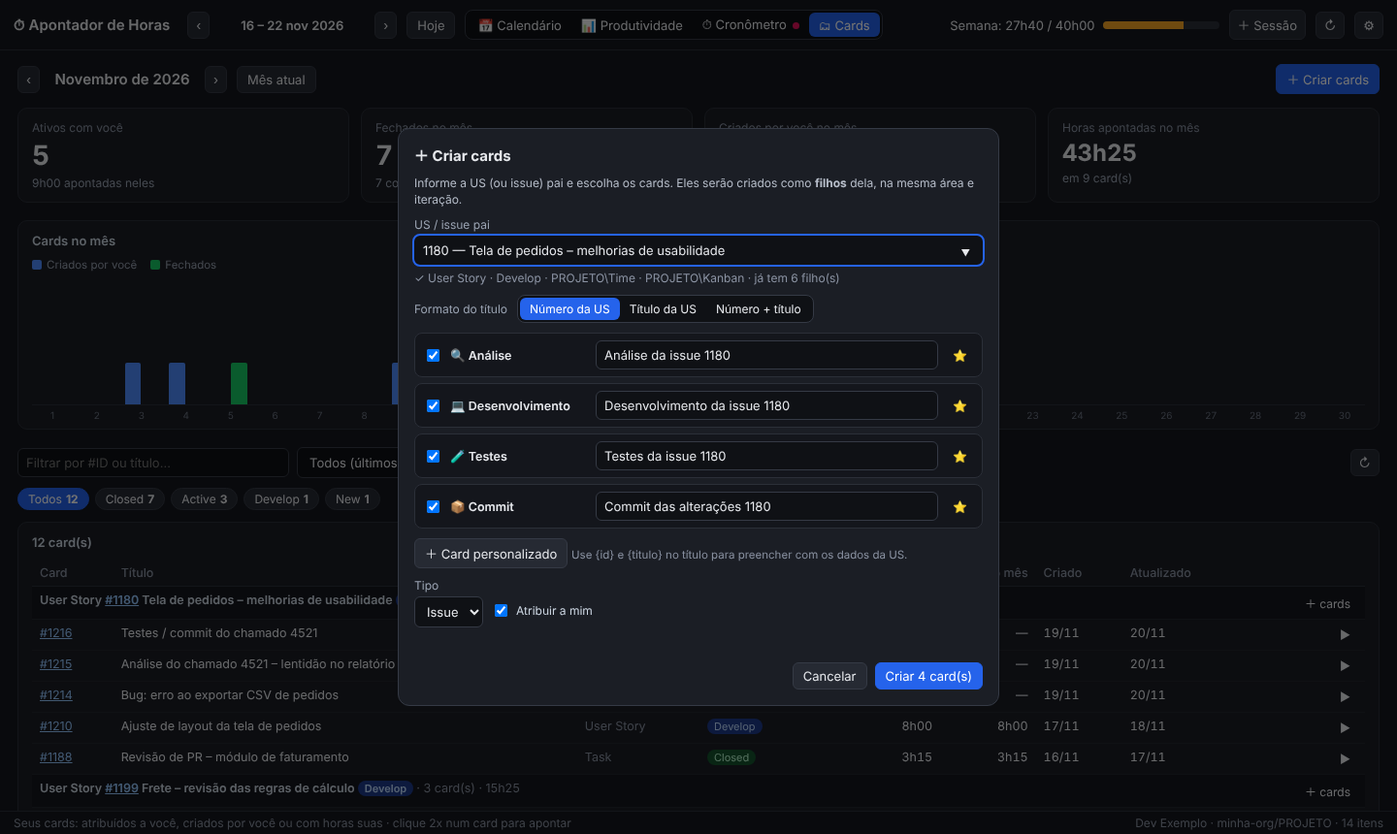
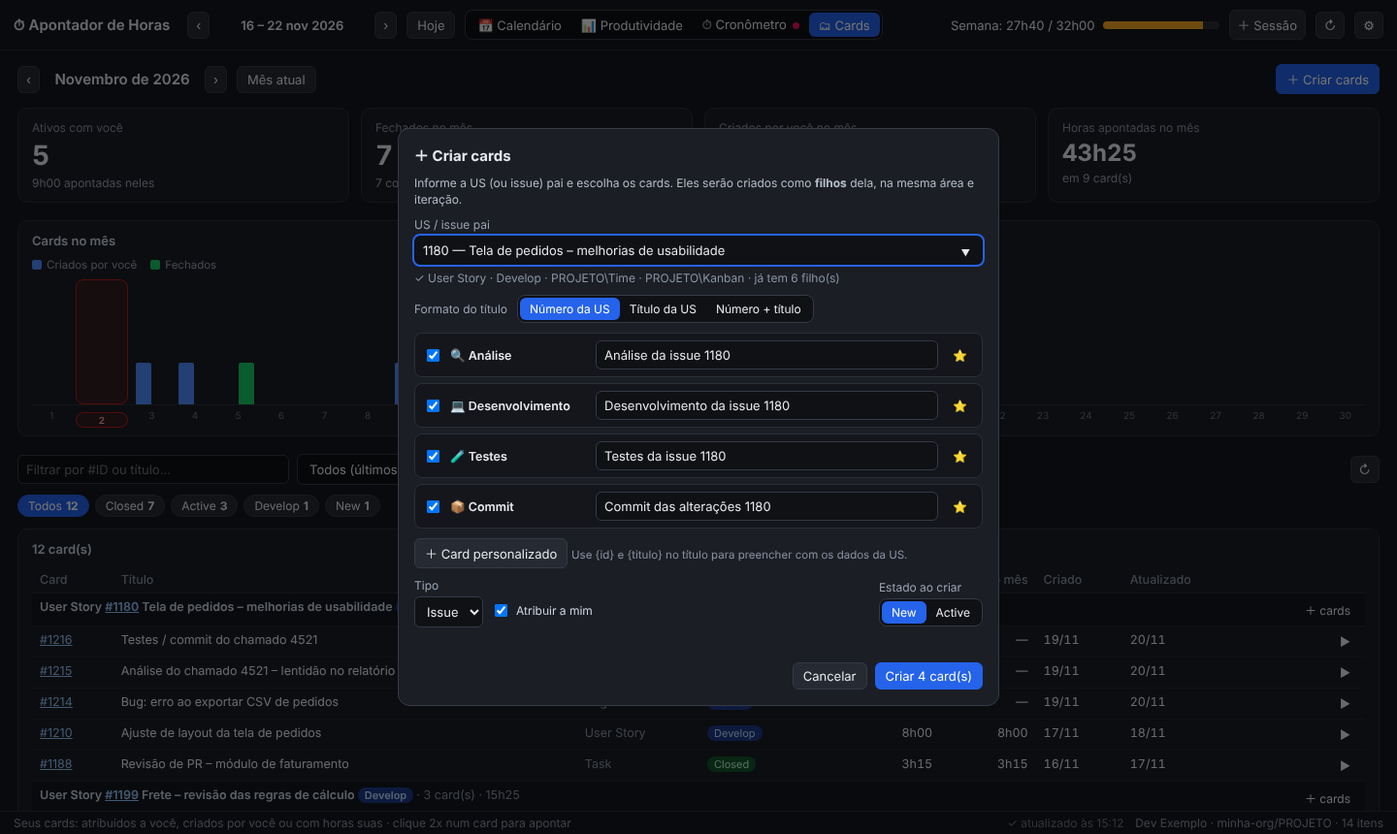
Feriados no calendário, sincronizados com o Clockin
- etiqueta vermelha "Feriado: nome" na data e coluna destacada
- feriados não contam na meta de horas (semana desconta) nem de cards
  (produtividade usa dias úteis sem feriados); gráficos marcam o dia
- nacionais calculados no app (inclui Sexta-feira Santa pela Páscoa)
- userscript 1.2.0 envia ao app os feriados de cada semana aberta no
  Clockin e tem o botão "Feriados do ano" para ler o ano inteiro
- Configurações → Feriados: adicionar à mão e desativar (o ajuste manual
  não é sobrescrito pelo Clockin)
- servidor: feriados.json, GET/POST /api/holidays e
  POST /api/holidays/import (cabeçalho da ponte do Clockin)

Claude-Session: https://claude.ai/code/session_0132oV9NVhGaX8LjV5porn9X

diff --git a/fonte/ui/index.html b/fonte/ui/index.html
@@ -176,6 +176,16 @@
   .seg3 button { border: 0; background: transparent; padding: 4px 10px; font-size: 12px; }
   .seg3 button.on { background: #2563eb; color: #fff; }
   .created li { margin: 3px 0; }
+  .hol { display: inline-block; margin-top: 3px; font-size: 10.5px; font-weight: 600; padding: 1px 6px; border-radius: 8px; border: 1px solid #b91c1c; color: #fca5a5; background: rgba(185,28,28,.15); max-width: 100%; white-space: nowrap; overflow: hidden; text-overflow: ellipsis; }
+  .dh.isHol { background: rgba(185,28,28,.08); }
+  .col.isHol { background: repeating-linear-gradient(135deg, rgba(185,28,28,.06) 0 8px, transparent 8px 16px); }
+  .bars .b.hol i, .bars2 .b.hol i { opacity: .5; }
+  .xlab span.hol, .bars .b.hol span { color: #fca5a5; }
+  .holl { max-height: 180px; overflow: auto; border: 1px solid #2b2f38; border-radius: 8px; }
+  .holl .hr { display: flex; gap: 8px; align-items: center; padding: 4px 8px; border-bottom: 1px solid #23262e; font-size: 12.5px; }
+  .holl .hr:last-child { border-bottom: 0; }
+  .holl .hr.off { opacity: .5; text-decoration: line-through; }
+  .src { font-size: 10.5px; padding: 0 6px; border-radius: 6px; background: #262a33; color: #9aa3b2; }
   .tok { background: #14161c; border: 1px solid #2b2f38; border-radius: 10px; padding: 12px; }
   .tabs { display: flex; background: #0f1115; border: 1px solid #353a45; border-radius: 8px; padding: 2px; }
   .tabs button { border: 0; background: transparent; padding: 4px 10px; }
@@ -295,6 +305,35 @@
   function truncMin(d) { const x = new Date(d); x.setSeconds(0, 0); return x; }
   function fmtH(h) { const m = Math.round(h * 60); return `${Math.floor(m / 60)}h${pad(m % 60)}`; }
   function fmtRange(e) { const s = new Date(e.start); return `${pad(s.getDate())}/${pad(s.getMonth() + 1)} ${timeStr(s)}–${e.end ? timeStr(new Date(e.end)) : 'em andamento'}`; }
+
+  // ───────── Feriados ─────────
+  // Nacionais calculados aqui + os que vêm do Clockin (pelo script) ou adicionados à mão.
+  function easterOf(y) {
+    const a = y % 19, b = Math.floor(y / 100), c = y % 100, d = Math.floor(b / 4), e = b % 4, f = Math.floor((b + 8) / 25), g = Math.floor((b - f + 1) / 3);
+    const h = (19 * a + b - d - g + 15) % 30, i = Math.floor(c / 4), k = c % 4, l = (32 + 2 * e + 2 * i - h - k) % 7, m = Math.floor((a + 11 * h + 22 * l) / 451);
+    const mo = Math.floor((h + l - 7 * m + 114) / 31), da = ((h + l - 7 * m + 114) % 31) + 1;
+    return new Date(y, mo - 1, da);
+  }
+  function nationalHolidays(y) {
+    const e = easterOf(y);
+    return [[`${y}-01-01`, 'Confraternização Universal'], [dateInput(addDays(e, -2)), 'Sexta-feira Santa'], [`${y}-04-21`, 'Tiradentes'],
+      [`${y}-05-01`, 'Dia do Trabalho'], [`${y}-09-07`, 'Independência do Brasil'], [`${y}-10-12`, 'Nossa Senhora Aparecida'],
+      [`${y}-11-02`, 'Finados'], [`${y}-11-15`, 'Proclamação da República'], [`${y}-11-20`, 'Dia da Consciência Negra'], [`${y}-12-25`, 'Natal']]
+      .map(([date, name]) => ({ date, name, source: 'nacional' }));
+  }
+  let HOL_SAVED = [];
+  const HOL = new Map();
+  function rebuildHolidays() {
+    HOL.clear();
+    const y = new Date().getFullYear();
+    for (const yy of [y - 1, y, y + 1]) for (const h of nationalHolidays(yy)) HOL.set(h.date, h);
+    for (const h of HOL_SAVED) { if (h.off) HOL.delete(h.date); else HOL.set(h.date, h); }
+  }
+  rebuildHolidays();
+  async function loadHolidays() { try { HOL_SAVED = (await local('/api/holidays')).holidays || []; } catch { /* mantém os nacionais */ } rebuildHolidays(); }
+  const holidayOf = (d) => HOL.get(dateInput(d)) || null;
+  const isWorkday = (d) => d.getDay() % 6 !== 0 && !holidayOf(d);
+  const workdaysIn = (a, b) => { let n = 0; for (let d = new Date(a); d < b; d = addDays(d, 1)) if (isWorkday(d)) n++; return n; };
 
   // ───────── Sessões (mesmo formato da extensão Work Session Hub) ─────────
   function decodeHtml(s) { return new DOMParser().parseFromString(`<textarea>${s}</textarea>`, 'text/html').querySelector('textarea').value; }
@@ -653,10 +692,10 @@
     const sameM = S.weekStart.getMonth() === end.getMonth();
     $('.week-label').textContent = `${S.weekStart.getDate()}${sameM ? '' : ' ' + MONTHS[S.weekStart.getMonth()]} – ${end.getDate()} ${MONTHS[end.getMonth()]} ${end.getFullYear()}`;
     const total = weekSegments().reduce((a, s) => a + s.hours, 0);
-    const goal = prefs.dailyGoal * 5;
+    const goal = prefs.dailyGoal * workdaysIn(S.weekStart, addDays(S.weekStart, 7));
     $('.goal-txt').textContent = `Semana: ${fmtH(total)} / ${fmtH(goal)}`;
     const bar = $('.goal .bar');
-    bar.querySelector('i').style.width = `${Math.min(100, (100 * total) / goal)}%`;
+    bar.querySelector('i').style.width = `${goal ? Math.min(100, (100 * total) / goal) : 100}%`;
     bar.classList.toggle('low', total < goal);
     $('.st-right').textContent = S.me ? `${S.me.name} · ${S.org}/${S.project} · ${S.items.size} itens` : '';
   }
@@ -803,10 +842,12 @@
     for (let d = 0; d < 7; d++) {
       const day = addDays(S.weekStart, d);
       const pct = Math.min(100, (100 * perDay[d]) / prefs.dailyGoal);
-      head += `<div class="dh${sameDay(day, today) ? ' today' : ''}${d >= 5 ? ' we' : ''}">
+      const hol = holidayOf(day), work = d < 5 && !hol;
+      head += `<div class="dh${sameDay(day, today) ? ' today' : ''}${d >= 5 ? ' we' : ''}${hol ? ' isHol' : ''}">
         <div class="n">${DAY_NAMES[d]} ${pad(day.getDate())}/${pad(day.getMonth() + 1)}</div>
-        <div class="tot"><span>${fmtH(perDay[d])}</span><span>${d < 5 && perDay[d] < prefs.dailyGoal ? `faltam ${fmtH(prefs.dailyGoal - perDay[d])}` : ''}</span></div>
-        ${d < 5 ? `<div class="mini${perDay[d] < prefs.dailyGoal ? ' low' : ''}"><i style="width:${pct}%"></i></div>` : ''}</div>`;
+        <div class="tot"><span>${fmtH(perDay[d])}</span><span>${work && perDay[d] < prefs.dailyGoal ? `faltam ${fmtH(prefs.dailyGoal - perDay[d])}` : ''}</span></div>
+        ${work ? `<div class="mini${perDay[d] < prefs.dailyGoal ? ' low' : ''}"><i style="width:${pct}%"></i></div>` : ''}
+        ${hol ? `<span class="hol" title="Feriado: ${esc(hol.name)}${hol.source === 'clockin' ? ' (Clockin)' : hol.source === 'manual' ? ' (adicionado por você)' : ' (nacional)'}">Feriado: ${esc(hol.name)}</span>` : ''}</div>`;
     }
     $('.cal-head').innerHTML = head;
 
@@ -835,7 +876,7 @@
           title="#${s.it.id} ${esc(s.it.title)}\n${timeStr(new Date(s.e.start))}–${realEnd} (${fmtH(entryHours(s.e))})${s.e.notes ? '\n' + esc(s.e.notes) : ''}">
           <b>#${s.it.id} ${esc(s.it.title)}</b>${hgt > 26 ? `${timeStr(s.a)}–${s.e.end ? timeStr(s.b) : 'agora'} · ${fmtH(s.hours)}` : ''}</div>`;
       }
-      cols += `<div class="col${d >= 5 ? ' we' : ''}${sameDay(day, today) ? ' today' : ''}" data-day="${d}" style="height:${height}px">${inner}</div>`;
+      cols += `<div class="col${d >= 5 ? ' we' : ''}${sameDay(day, today) ? ' today' : ''}${holidayOf(day) ? ' isHol' : ''}" data-day="${d}" style="height:${height}px">${inner}</div>`;
     }
     const grid = $('.grid');
     grid.dataset.h0 = h0; grid.dataset.h1 = h1;
@@ -851,7 +892,7 @@
   const monthStart = (d) => new Date(d.getFullYear(), d.getMonth(), 1);
   const dayKey = (d) => dateInput(d);
   const P = { month: monthStart(new Date()), rows: [], loadedKey: '', loading: false, selDay: null, error: '' };
-  function weekdaysIn(a, b) { let n = 0; for (let d = new Date(a); d < b; d = addDays(d, 1)) if (d.getDay() % 6 !== 0) n++; return n; }
+  function weekdaysIn(a, b) { return workdaysIn(a, b); }
   const ymdW = (d) => `${d.getFullYear()}-${pad(d.getMonth() + 1)}-${pad(d.getDate())}`;
   async function getItemsWith(ids, fields) {
     const out = []; const uniq = [...new Set(ids.map(Number))].filter(Boolean);
@@ -931,7 +972,7 @@
     const isCur = m0.getTime() === monthStart(t0).getTime();
     html += `<div class="kpis">
       ${kpi('Hoje', `${pad(t0.getDate())}/${pad(t0.getMonth() + 1)}`, sToday, g)}
-      ${kpi('Semana', `${pad(w0.getDate())}/${pad(w0.getMonth() + 1)} – ${pad(addDays(w0, 6).getDate())}/${pad(addDays(w0, 6).getMonth() + 1)}`, sWeek, g * 5)}
+      ${kpi('Semana', `${pad(w0.getDate())}/${pad(w0.getMonth() + 1)} – ${pad(addDays(w0, 6).getDate())}/${pad(addDays(w0, 6).getMonth() + 1)}`, sWeek, g * workdaysIn(w0, addDays(w0, 7)))}
       ${kpi(isCur ? 'Mês' : 'Mês selecionado', `${weekdaysIn(m0, m1)} dias úteis`, sMonth, g * weekdaysIn(m0, m1))}
     </div>`;
     // Gráfico do mês
@@ -940,9 +981,9 @@
     const max = Math.max(g || 0, ...per, 1);
     html += `<div class="chart"><h3>Cards fechados com horas, por dia${P.selDay ? ' · clique de novo no dia para ver o mês todo' : ' · clique num dia para filtrar'}</h3><div class="bars">
       ${g ? `<div class="goal-line" style="bottom:${(100 * g) / max}%" title="Meta: ${g}/dia"></div>` : ''}
-      ${days.map((d, i) => `<div class="b${d.getDay() % 6 === 0 ? ' we' : ''}${g && per[i] >= g ? ' met' : ''}${P.selDay === dayKey(d) ? ' sel' : ''}" data-act="p-day" data-day="${dayKey(d)}" title="${pad(d.getDate())}/${pad(d.getMonth() + 1)}: ${per[i]} card(s)">
+      ${days.map((d, i) => `<div class="b${d.getDay() % 6 === 0 ? ' we' : ''}${holidayOf(d) ? ' hol' : ''}${g && per[i] >= g ? ' met' : ''}${P.selDay === dayKey(d) ? ' sel' : ''}" data-act="p-day" data-day="${dayKey(d)}" title="${pad(d.getDate())}/${pad(d.getMonth() + 1)}: ${per[i]} card(s)${holidayOf(d) ? ` · Feriado: ${esc(holidayOf(d).name)}` : ''}">
         ${per[i] ? `<span>${per[i]}</span>` : ''}<i style="height:${(100 * per[i]) / max}%"></i></div>`).join('')}
-      </div><div class="xlab">${days.map((d) => `<span class="${sameDay(d, t0) ? 'today' : ''}">${d.getDate()}</span>`).join('')}</div></div>`;
+      </div><div class="xlab">${days.map((d) => `<span class="${sameDay(d, t0) ? 'today' : holidayOf(d) ? 'hol' : ''}" title="${holidayOf(d) ? `Feriado: ${esc(holidayOf(d).name)}` : ''}">${d.getDate()}</span>`).join('')}</div></div>`;
     // Lista filtrada
     let a = m0, b = m1, label = 'no mês';
     if (P.selDay) { const [y, mo, dd] = P.selDay.split('-').map(Number); a = new Date(y, mo - 1, dd); b = addDays(a, 1); label = `em ${pad(dd)}/${pad(mo)}`; }
@@ -1301,8 +1342,8 @@
     const mx = Math.max(1, ...cr, ...fe);
     const t0 = new Date();
     html += `<div class="chart"><h3>Cards no mês</h3><div class="legend"><span><i style="background:#4f8cff"></i>Criados por você</span><span><i style="background:#17c964"></i>Fechados</span></div>
-      <div class="bars2">${days.map((d, i) => `<div class="b${d.getDay() % 6 === 0 ? ' we' : ''}" title="${pad(d.getDate())}/${pad(d.getMonth() + 1)}: ${cr[i]} criado(s), ${fe[i]} fechado(s)"><i class="c" style="height:${(100 * cr[i]) / mx}%"></i><i class="f" style="height:${(100 * fe[i]) / mx}%"></i></div>`).join('')}</div>
-      <div class="xlab">${days.map((d) => `<span class="${sameDay(d, t0) ? 'today' : ''}">${d.getDate()}</span>`).join('')}</div></div>`;
+      <div class="bars2">${days.map((d, i) => `<div class="b${d.getDay() % 6 === 0 ? ' we' : ''}${holidayOf(d) ? ' hol' : ''}" title="${pad(d.getDate())}/${pad(d.getMonth() + 1)}: ${cr[i]} criado(s), ${fe[i]} fechado(s)${holidayOf(d) ? ` · Feriado: ${esc(holidayOf(d).name)}` : ''}"><i class="c" style="height:${(100 * cr[i]) / mx}%"></i><i class="f" style="height:${(100 * fe[i]) / mx}%"></i></div>`).join('')}</div>
+      <div class="xlab">${days.map((d) => `<span class="${sameDay(d, t0) ? 'today' : holidayOf(d) ? 'hol' : ''}">${d.getDate()}</span>`).join('')}</div></div>`;
     // Status
     const pool = C.show === 'active' ? mine.filter((r) => !isDone(r.state)) : C.show === 'closedM' ? closedM : mine;
     const states = {}; for (const r of pool) states[r.state] = (states[r.state] || 0) + 1;
@@ -1843,6 +1884,16 @@
         <div class="t-msg" style="font-size:12px;min-height:16px;margin-top:6px"></div>
         <div style="font-size:12px"><a href="https://dev.azure.com/${encodeURIComponent(S.org)}/_usersSettings/tokens" target="_blank" rel="noopener">Gerenciar meus tokens no Azure ↗</a> <span class="muted">· o token fica criptografado só para o seu usuário do Windows</span></div>
       </div>
+      <div class="tok">
+        <div style="display:flex;align-items:center;gap:8px"><b>📅 Feriados</b><span class="muted" style="font-size:12px">· não contam nas metas de horas e de cards</span></div>
+        <div class="muted" style="font-size:12px;margin:4px 0 8px">Os nacionais já vêm no app. Os da empresa chegam sozinhos do Clockin sempre que você abre o Clockin com o script instalado (ou pelo botão "Importar feriados do ano" na sincronização).</div>
+        <div class="holl"></div>
+        <div class="row" style="align-items:flex-end;margin-top:8px">
+          <label style="flex:none">Data<input type="date" class="h-date"></label>
+          <label>Nome<input class="h-name" placeholder="Ex.: Aniversário da cidade" maxlength="80"></label>
+          <button class="h-add" style="flex:none">＋ Adicionar</button>
+        </div>
+      </div>
       <div class="row">
         <label>Meta diária (h)<input type="number" min="1" max="24" step="0.5" class="s-goal" value="${prefs.dailyGoal}"></label>
         <label>Cards fechados por dia<input type="number" min="0" max="50" step="1" class="s-cards" value="${prefs.cardGoal || ''}" placeholder="sem meta"></label>
@@ -1886,6 +1937,41 @@
     q('.t-test').addEventListener('click', async () => {
       msg('Testando…');
       try { const r = await local('/api/test'); msg(`✓ Token válido · ${r.me.name} (${r.me.email})`, '#86efac'); }
+      catch (e) { msg(e.message, '#fca5a5'); }
+    });
+    // Feriados
+    const y = new Date().getFullYear();
+    const drawHol = () => {
+      const saved = new Map(HOL_SAVED.map((h) => [h.date, h]));
+      const all = new Map();
+      for (const h of nationalHolidays(y)) all.set(h.date, h);
+      for (const h of HOL_SAVED) if (h.date.startsWith(String(y)) || h.date.startsWith(String(y + 1))) all.set(h.date, h);
+      const list = [...all.values()].filter((h) => h.date >= `${y}-01-01`).sort((a, b) => a.date.localeCompare(b.date));
+      const srcName = { nacional: 'nacional', clockin: 'Clockin', manual: 'você' };
+      q('.holl').innerHTML = list.map((h) => {
+        const [yy, mm, dd] = h.date.split('-');
+        const dow = new Date(+yy, +mm - 1, +dd).toLocaleDateString('pt-BR', { weekday: 'short' });
+        const isNat = nationalHolidays(+yy).some((n) => n.date === h.date);
+        return `<div class="hr${h.off ? ' off' : ''}"><span class="mono" style="width:86px">${dd}/${mm}/${yy}</span><span class="muted" style="width:38px">${esc(dow)}</span>
+          <span style="flex:1">${esc(h.name)}</span><span class="src">${esc(srcName[h.source] || h.source)}${h.off ? ' · desativado' : ''}</span>
+          ${h.off ? `<button class="ibtn h-on" data-d="${h.date}" title="Reativar">↺</button>` : `<button class="ibtn h-off" data-d="${h.date}" data-nat="${isNat ? 1 : ''}" data-src="${h.source}" title="${h.source === 'nacional' || isNat ? 'Desativar (a empresa não folga)' : 'Remover'}">✕</button>`}</div>`;
+      }).join('') || '<div class="hr muted">Nenhum feriado.</div>';
+      q('.holl').querySelectorAll('.h-off').forEach((b) => b.addEventListener('click', async () => {
+        const d = b.dataset.d, nat = nationalHolidays(+d.slice(0, 4)).find((n) => n.date === d);
+        const cur = HOL_SAVED.find((x) => x.date === d);
+        // nacional ou do Clockin: guarda como "desativado" para não voltar na próxima sincronização
+        const body = nat || b.dataset.src === 'clockin' ? { date: d, name: (cur && cur.name) || (nat && nat.name) || 'Feriado', off: true } : { date: d, remove: true };
+        HOL_SAVED = (await local('/api/holidays', { method: 'POST', body })).holidays; rebuildHolidays(); drawHol(); render();
+      }));
+      q('.holl').querySelectorAll('.h-on').forEach((b) => b.addEventListener('click', async () => {
+        HOL_SAVED = (await local('/api/holidays', { method: 'POST', body: { date: b.dataset.d, remove: true } })).holidays; rebuildHolidays(); drawHol(); render();
+      }));
+    };
+    loadHolidays().then(drawHol);
+    q('.h-add').addEventListener('click', async () => {
+      const d = q('.h-date').value, n = q('.h-name').value.trim();
+      if (!d) { q('.h-date').focus(); return; }
+      try { HOL_SAVED = (await local('/api/holidays', { method: 'POST', body: { date: d, name: n || 'Feriado' } })).holidays; rebuildHolidays(); drawHol(); render(); q('.h-name').value = ''; }
       catch (e) { msg(e.message, '#fca5a5'); }
     });
     q('.s-cancel').addEventListener('click', closeModal);
@@ -1968,6 +2054,7 @@
       S.org = st.org; S.project = st.project;
       if (!st.configured) { openSetup(); return; }
       S.me = st.me;
+      await loadHolidays();
       await reload(true);
       const n = daysLeft(st.expiresAt);
       if (n != null && n <= 7) toast(n < 0 ? 'Seu token do Azure já venceu. Gere outro em ⚙ → Trocar token.' : `Seu token do Azure vence em ${n} dia(s). Gere outro em ⚙ antes que pare de funcionar.`, true);
@@ -1996,6 +2083,7 @@
     syncing = true; syncLabel('↻ atualizando…');
     try {
       const scroll = $('.scroller')?.scrollTop;
+      await loadHolidays();
       await loadAll();
       const jobs = [];
       if (S.view === 'prod') jobs.push(loadProd(true, true));

diff --git a/clockin-importar.user.js b/clockin-importar.user.js
@@ -1,7 +1,7 @@
 // ==UserScript==
 // @name         Clockin ← Apontador de Horas
 // @namespace    lpalves.apontador-horas
-// @version      1.1.1
+// @version      1.2.0
 // @description  Sincroniza o Clockin com o Apontador de Horas: compara cada dia, mostra o que muda (editar, criar, excluir) e aplica pelo próprio Clockin.
 // @match        https://clockin.intranet.premiersoft.net/*
 // @grant        GM_xmlhttpRequest
@@ -194,6 +194,72 @@
     return found;
   }
 
+  // ───────── Feriados: o Clockin mostra "Feriado: nome" no título do dia ─────────
+  function weekFromLabel() {
+    const el = weekLabelEl();
+    if (!el) return null;
+    const [d, m] = el.textContent.trim().slice(0, 5).split('/').map(Number);
+    const now = new Date();
+    let w = new Date(now.getFullYear(), m - 1, d);
+    if (w - now > 180 * 864e5) w = new Date(now.getFullYear() - 1, m - 1, d);
+    if (now - w > 180 * 864e5) w = new Date(now.getFullYear() + 1, m - 1, d);
+    return w;
+  }
+  function scanHolidays(weekStart) {
+    const out = [];
+    if (!weekStart) return out;
+    for (const h of document.querySelectorAll('h4')) {
+      const m = h.textContent.match(DAY_RE);
+      if (!m) continue;
+      const fm = h.textContent.match(/Feriado:\s*(.+)$/i) || (h.parentElement && h.parentElement.textContent.match(/Feriado:\s*(.+?)\s*Total:/i));
+      if (!fm) continue;
+      for (let i = 0; i < 7; i++) {
+        const x = addDays(weekStart, i);
+        if (x.getDate() === Number(m[1]) && x.getMonth() === MONTHS_PT[m[2].toLowerCase()]) out.push({ date: ymd(x), name: norm(fm[1]) });
+      }
+    }
+    return out;
+  }
+  const sentHol = new Set();
+  function postHolidays(list) {
+    const fresh = list.filter((h) => !sentHol.has(`${h.date}|${h.name}`));
+    if (!fresh.length) return Promise.resolve(0);
+    return new Promise((resolve) => {
+      GM_xmlhttpRequest({
+        method: 'POST', url: 'http://127.0.0.1:47321/api/holidays/import', timeout: 15000,
+        headers: { 'X-Apontador-Bridge': 'clockin', 'Content-Type': 'application/json' },
+        data: JSON.stringify({ holidays: fresh }),
+        onload: (r) => { if (r.status === 200) fresh.forEach((h) => sentHol.add(`${h.date}|${h.name}`)); resolve(r.status === 200 ? fresh.length : 0); },
+        onerror: () => resolve(0), ontimeout: () => resolve(0),
+      });
+    });
+  }
+  // Sempre que a semana exibida muda, manda os feriados dela para o Apontador (se ele estiver aberto)
+  let lastLabel = '';
+  setInterval(() => {
+    if (location.pathname !== '/timer') return;
+    const el = weekLabelEl();
+    const key = el ? el.textContent + '|' + document.querySelectorAll('h4').length : '';
+    if (!el || key === lastLabel) return;
+    lastLabel = key;
+    postHolidays(scanHolidays(weekFromLabel()));
+  }, 3000);
+  async function importYearHolidays(year, progress) {
+    const all = [];
+    let w = startOfWeek(new Date(year, 0, 1));
+    const end = new Date(year + 1, 0, 1);
+    let i = 0;
+    while (w < end) {
+      progress(++i);
+      await gotoWeek(w);
+      all.push(...scanHolidays(w).filter((h) => h.date.startsWith(String(year))));
+      w = addDays(w, 7);
+    }
+    const uniq = [...new Map(all.map((h) => [h.date, h])).values()];
+    await postHolidays(uniq);
+    return uniq;
+  }
+
   // ───────── Plano por dia ─────────
   const descOf = (s) => `#${s.workItemId} ${s.title}${s.notes ? ` — ${s.notes}` : ''}`.slice(0, 500);
   function buildPlan(weekStart, sessions, clockinDays, project) {
@@ -365,6 +431,7 @@
     <h2>Sincronizar com o Apontador de Horas</h2>
     <button data-a="prev">‹</button><span class="wk"></span><button data-a="next">›</button>
     <button data-a="reload" title="Comparar de novo">↻</button>
+    <button data-a="hol" title="Lê os feriados de todas as semanas do ano no Clockin e manda para o Apontador">📅 Feriados do ano</button>
     <button data-a="close">✕</button>
   </div>
   <div class="proj">Projeto no Clockin: <input class="pj"></div>
@@ -490,6 +557,14 @@
     else if (a === 'prev') { st.week = addDays(st.week, -7); load(); }
     else if (a === 'next') { st.week = addDays(st.week, 7); load(); }
     else if (a === 'reload') load();
+    else if (a === 'hol') {
+      if (st.busy) return;
+      st.busy = true; updateGo();
+      const y = st.week.getFullYear();
+      importYearHolidays(y, (n) => msg(`Lendo os feriados de ${y} no Clockin… semana ${n}/53`))
+        .then(async (list) => { st.busy = false; await load(); msg(`${list.length} feriado(s) de ${y} enviados para o Apontador: ${list.map((h) => `${h.date.slice(8)}/${h.date.slice(5, 7)} ${h.name}`).join(' · ') || 'nenhum'}`); })
+        .catch((e) => { st.busy = false; msg(e.message, true); load(); });
+    }
     else if (a === 'go') go();
   });
 })();

diff --git a/fonte/server.js b/fonte/server.js
@@ -16,6 +16,7 @@ const IS_WIN = process.platform === 'win32';
 const APP_DIR = path.join(process.env.APPDATA || path.join(os.homedir(), '.config'), 'ApontadorHoras');
 const DATA_DIR = path.join(process.env.LOCALAPPDATA || path.join(os.homedir(), '.cache'), 'ApontadorHoras');
 const CONFIG_FILE = path.join(APP_DIR, 'config.json');
+const HOLIDAYS_FILE = path.join(APP_DIR, 'feriados.json');
 const LOG_FILE = path.join(DATA_DIR, 'app.log');
 const APP_TOKEN = crypto.randomBytes(24).toString('hex');
 const NO_WINDOW = process.argv.includes('--no-window');
@@ -95,6 +96,30 @@ function loadConfig() {
   }
 }
 function saveConfig(c) { fs.writeFileSync(CONFIG_FILE, JSON.stringify(c, null, 2)); }
+
+// ───────── Feriados (vindos do Clockin ou adicionados à mão) ─────────
+// Lista de { date: 'AAAA-MM-DD', name, source: 'clockin' | 'manual', off?: true }
+// off: true desativa um feriado (por exemplo, um nacional que a empresa não folga).
+function loadHolidays() { try { const j = JSON.parse(fs.readFileSync(HOLIDAYS_FILE, 'utf8')); return Array.isArray(j) ? j : []; } catch { return []; } }
+function saveHolidays(list) { fs.writeFileSync(HOLIDAYS_FILE, JSON.stringify(list, null, 2)); }
+const DATE_RE = /^\d{4}-\d{2}-\d{2}$/;
+function upsertHolidays(items, source) {
+  const list = loadHolidays();
+  let changed = 0;
+  for (const h of items) {
+    if (!h || !DATE_RE.test(String(h.date))) continue;
+    const name = String(h.name || 'Feriado').replace(/\s+/g, ' ').trim().slice(0, 80) || 'Feriado';
+    const i = list.findIndex((x) => x.date === h.date);
+    const next = { date: h.date, name, source, ...(h.off ? { off: true } : {}) };
+    if (i < 0) { list.push(next); changed++; }
+    else if (source === 'manual' || list[i].source !== 'manual') {
+      // o que você ajustou à mão não é sobrescrito pelo Clockin
+      if (JSON.stringify(list[i]) !== JSON.stringify(next)) { list[i] = next; changed++; }
+    }
+  }
+  if (changed) { list.sort((a, b) => a.date.localeCompare(b.date)); saveHolidays(list); }
+  return { changed, list };
+}
 
 // ───────── Azure DevOps ─────────
 function authHeader(token) { return 'Basic ' + Buffer.from(':' + token).toString('base64'); }
@@ -206,6 +231,14 @@ const server = http.createServer(async (req, res) => {
 
     // Ponte para o Clockin: só responde a quem manda o cabeçalho próprio (páginas comuns não conseguem
     // mandar cabeçalho customizado para cá sem CORS, e este endpoint não libera CORS).
+    if (url.pathname === '/api/holidays/import' && req.method === 'POST') {
+      if (req.headers['x-apontador-bridge'] !== 'clockin') return send(res, 403, { message: 'Acesso negado' });
+      const body = JSON.parse((await readBody(req, 256 * 1024)).toString() || '{}');
+      const items = (Array.isArray(body.holidays) ? body.holidays : []).slice(0, 400).map((h) => ({ date: h.date, name: h.name }));
+      const r = upsertHolidays(items, 'clockin');
+      if (r.changed) log('Feriados do Clockin atualizados:', r.changed);
+      return send(res, 200, { ok: true, changed: r.changed, total: r.list.length });
+    }
     if (url.pathname === '/api/export' && req.method === 'GET') {
       if (req.headers['x-apontador-bridge'] !== 'clockin') return send(res, 403, { message: 'Acesso negado' });
       if (!config || !pat) return send(res, 409, { message: 'Abra o Apontador de Horas e conecte seu token do Azure primeiro.' });
@@ -278,6 +311,17 @@ const server = http.createServer(async (req, res) => {
       if (!config || !pat) return send(res, 404, { message: 'Nenhum token salvo.' });
       try { const me = await whoAmI(config.org, pat); return send(res, 200, { ok: true, me }); }
       catch (e) { return send(res, 400, { message: e.message }); }
+    }
+    if (url.pathname === '/api/holidays' && req.method === 'GET') return send(res, 200, { holidays: loadHolidays() });
+    if (url.pathname === '/api/holidays' && req.method === 'POST') {
+      const body = JSON.parse((await readBody(req)).toString() || '{}');
+      if (body.remove && DATE_RE.test(String(body.date))) {
+        const list = loadHolidays().filter((x) => x.date !== body.date); saveHolidays(list);
+        return send(res, 200, { holidays: list });
+      }
+      if (!DATE_RE.test(String(body.date))) return send(res, 400, { message: 'Data inválida.' });
+      const r = upsertHolidays([{ date: body.date, name: body.name, off: !!body.off }], 'manual');
+      return send(res, 200, { holidays: r.list });
     }
     if (url.pathname === '/api/logout' && req.method === 'POST') {
       try { fs.unlinkSync(CONFIG_FILE); } catch { /* já não existia */ }

diff --git a/README.md b/README.md
@@ -37,6 +37,7 @@ Ela grava no mesmo formato da extensão Work Session Hub: campos `Custom.WorkSes
 - **Arraste** no calendário para criar uma sessão (com encaixe de 15 em 15 min). **Clique** numa sessão para editar, mover para outro card ou excluir.
 - A barra lateral **Meus itens** mostra os cards com horas na semana, os fixados, os recentes e os fechados. **Clique duplo** num card abre a tela de apontamento.
 - Antes de gravar, o app confere se o horário se sobrepõe a outra sessão sua, como faz o hub.
+- **Feriados** aparecem com a etiqueta vermelha **"Feriado: nome"** na data, e a coluna fica destacada. Esses dias não contam nas metas de horas (a meta da semana desconta o feriado) nem na de cards. Os nacionais vêm calculados no app, inclusive a Sexta-feira Santa. Os da empresa chegam do **Clockin**: o script envia os feriados de cada semana que você abre lá, e o botão **📅 Feriados do ano** da sincronização lê o ano inteiro. Em **⚙ Configurações → Feriados** você adiciona feriados (por exemplo, o aniversário da cidade) ou desativa um que a empresa não folga.
 
 ### ✏ Nova sessão digitando o número do card
 
